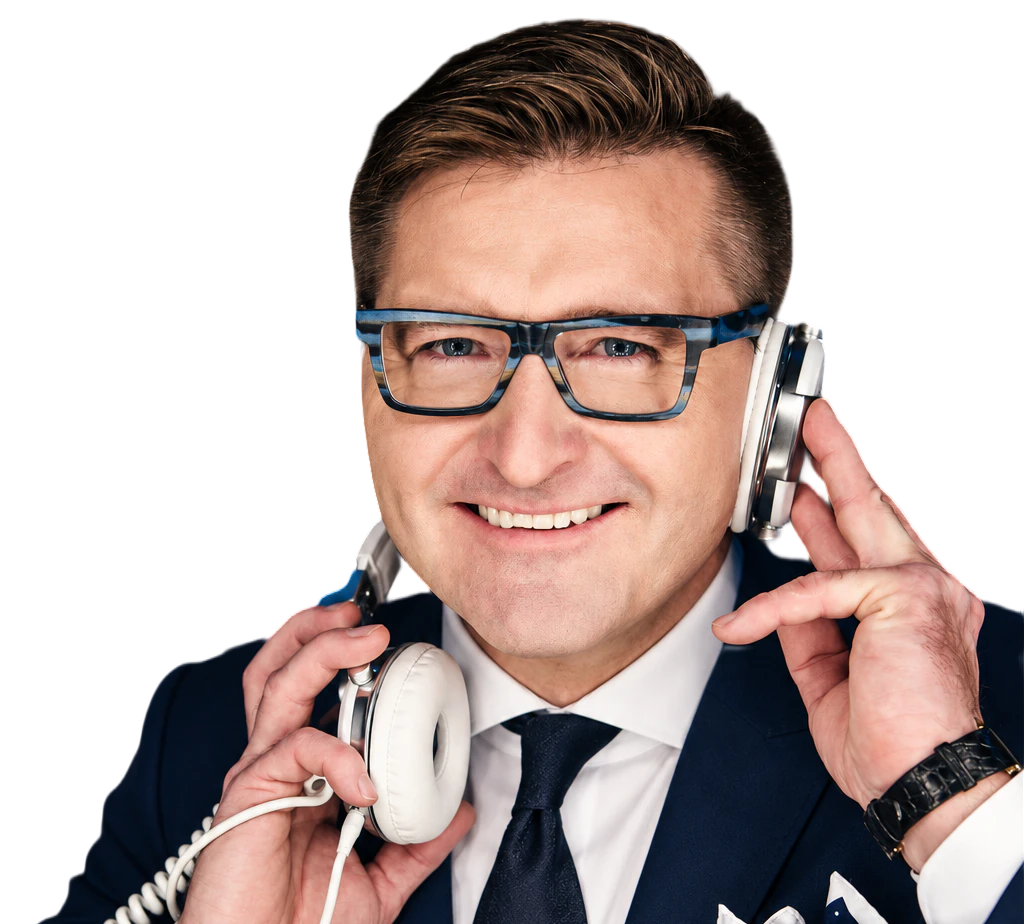
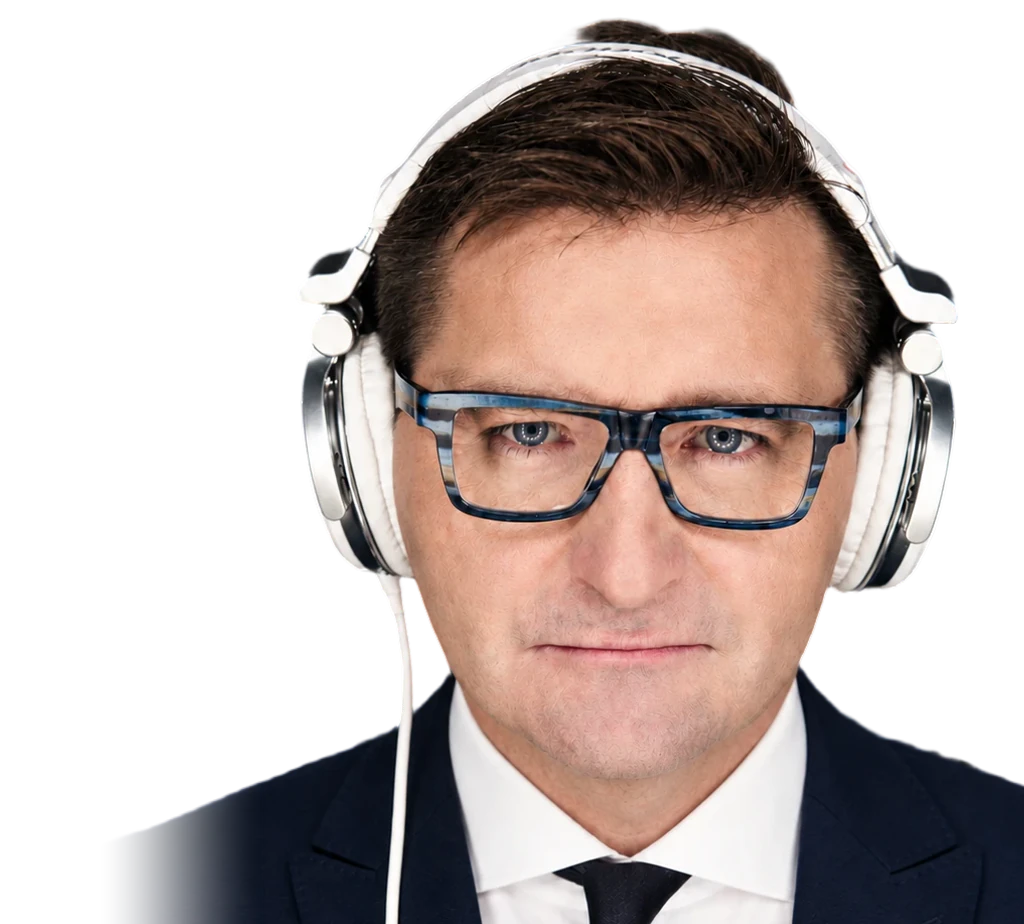
v1: nowe zdjęcie w hero (portret w słuchawkach), osobny kadr na telefon
- wycinek nowego zdjęcia (BEN2 + oczyszczenie krawędzi), kadr 1024x924 na komputer i tablet, lewy brzeg marynarki wygaszony
- na telefonie wyższy kadr 1017x1162 wybierany przez picture/source, scena telefonu dopasowana do nowych proporcji
- wygaszone boki zdjęcia na szerszych ekranach w pionie, nowy opis alt

diff --git a/index.html b/index.html
@@ -100,12 +100,18 @@
       <div class="hero__stage" data-parallax="0.08">
         <p class="hero__bg-word" aria-hidden="true">Music<br>Artist</p>
         <figure class="hero__portrait">
-          <img src="assets/hero-cutout-1024.webp"
-               srcset="assets/hero-cutout-1024.webp 1024w, assets/hero-cutout-2048.webp 2048w"
-               sizes="(orientation: portrait) and (max-width: 767px) 210vw, (max-width: 699px) and (min-height: 521px) 210vw, (orientation: portrait) and (max-width: 1199px) 680px, 62vw"
-               width="1024" height="924"
-               alt="Błażej Biurkowski w granatowym garniturze ze słuchawkami DJ-skimi"
-               fetchpriority="high" decoding="async">
+          <!-- na telefonie wyższy kadr (głowa i tułów, 1017x1162), bo zdjęcie leży pod całym tekstem; na komputerze i tablecie kadr 1024x924 -->
+          <picture>
+            <source media="(orientation: portrait) and (max-width: 767px), (max-width: 699px) and (min-height: 521px)"
+                    srcset="assets/hero-cutout-m-1017.webp 1017w, assets/hero-cutout-m-2034.webp 2034w"
+                    sizes="150vw" width="1017" height="1162">
+            <img src="assets/hero-cutout-1024.webp"
+                 srcset="assets/hero-cutout-1024.webp 1024w, assets/hero-cutout-2048.webp 2048w"
+                 sizes="(orientation: portrait) and (max-width: 1199px) 680px, 62vw"
+                 width="1024" height="924"
+                 alt="Błażej Biurkowski w granatowym garniturze i białych słuchawkach DJ-skich"
+                 fetchpriority="high" decoding="async">
+          </picture>
         </figure>
       </div>
     </section>

diff --git a/css/style.css b/css/style.css
@@ -1082,11 +1082,17 @@ body.is-loaded .hero__portrait img { opacity: 1; transform: none; }
   .hero__contact { color: var(--cream); }
   .hero__stage {
     position: absolute; top: auto; right: auto; bottom: 0;
-    height: var(--stage-h); width: calc(var(--stage-h) * 1024 / 924);
-    left: calc(50% - var(--stage-h) * 1024 / 924 * .56);
+    height: var(--stage-h); width: calc(var(--stage-h) * 1017 / 1162);
+    left: calc(50% - var(--stage-h) * 1017 / 1162 * .52);   /* kadr telefonu 1017:1162, oś twarzy na 52% szerokości */
     margin: 0;
   }
   .hero__bg-word { display: none; }
+  /* na szerszych ekranach w pionie (do 767 px) kadr jest węższy od okna: boki marynarki wygaszone, bez ostrej pionowej krawędzi
+     (na zwykłym telefonie te pasy leżą poza ekranem) */
+  .hero__portrait {
+    -webkit-mask-image: linear-gradient(90deg, transparent 0, #000 14%, #000 86%, transparent 100%);
+    mask-image: linear-gradient(90deg, transparent 0, #000 14%, #000 86%, transparent 100%);
+  }
 }
 
 /* Bardzo niski telefon (np. 320×568): hero trochę wyższe niż ekran, żeby tekst, twarz i przycisk się nie nakładały */

diff --git a/README.md b/README.md
@@ -14,7 +14,7 @@ Statyczna strona (HTML + CSS + JS, bez frameworków), przygotowana do przeniesie
 
 ## Przeniesienie na WordPress
 - Każda `<section>` = jedna sekcja/kontener w Gutenbergu lub Elementorze. Teksty są zwykłymi nagłówkami i akapitami (bez dzielenia na litery, bez tekstu na grafikach).
-- Hero: nagłówek i opis siedzą w grupie `.hero__head` (w WordPressie: blok Grupa z nagłówkiem i akapitem). Linie nagłówka są łamane `<br>` (w edytorze Shift+Enter), więc ramka grupy ma szerokość najdłuższej linii; na telefonie opis stoi dokładnie na jej środku, na komputerze i tablecie jest wyrównany do lewej. Duży napis w tle (`.hero__bg-word`, dekoracyjny, `aria-hidden`) z lewej wyłania się z tła (maska gradientowa), a zdjęcie postaci z przezroczystym tłem (WebP z kanałem alfa) w `.hero__stage`. Scena ma w CSS proporcje wycinka 1024:924 (`aspect-ratio`); przy podmianie zdjęcia na kadr o innych proporcjach trzeba zmienić `aspect-ratio` i położenie napisu. Oryginał wycinka (PNG): `assets/source/hero-cutout.png`.
+- Hero: nagłówek i opis siedzą w grupie `.hero__head` (w WordPressie: blok Grupa z nagłówkiem i akapitem). Linie nagłówka są łamane `<br>` (w edytorze Shift+Enter), więc ramka grupy ma szerokość najdłuższej linii; na telefonie opis stoi dokładnie na jej środku, na komputerze i tablecie jest wyrównany do lewej. Duży napis w tle (`.hero__bg-word`, dekoracyjny, `aria-hidden`) z lewej wyłania się z tła (maska gradientowa), a zdjęcie postaci z przezroczystym tłem (WebP z kanałem alfa) w `.hero__stage`. Scena ma w CSS proporcje wycinka 1024:924 (`aspect-ratio`); przy podmianie zdjęcia na kadr o innych proporcjach trzeba zmienić `aspect-ratio` i położenie napisu. Obecne zdjęcie (od 4.10.2026: portret w białych słuchawkach na głowie, poprawiony w GPT Image 2) ma wycinek `assets/source/hero-cutout-3.png` (zdjęcie: `hero-photo-3.png`); poprzedni wycinek zostaje w `assets/source/hero-cutout.png`. Na komputerze i tablecie kadr to `hero-cutout-1024/2048.webp` (postać przesunięta w prawo, lewy brzeg marynarki wygaszony), na telefonie wyższy kadr 1017:1162 (`hero-cutout-m-1017/2034.webp`) wybierany elementem `<picture><source media=…>` z tym samym warunkiem co układ telefonu w CSS. Przy podmianie zdjęcia trzeba ustawić kadr tak, żeby na telefonie brwi wypadły na ok. 34% wysokości, a broda na ok. 67%.
 - O mnie: nagłówek „O mnie” i cała wypowiedź Błażeja jako jeden `<blockquote>` z akapitami (w WordPressie: blok Cytat). Obok zdjęcie Błażeja na hokerze ze słuchawkami w dłoni, z wyciętym tłem (`assets/about-portrait.webp`, oryginał wycinka: `assets/source/about-seated-cutout.png`), w tle miękkie wstęgi `assets/ribbons.webp` (CSS, `.about::before`, generator `.claude/tools/ribbons.mjs`).
 - Styl: po lewej karuzela 3D (`.values__carousel[data-carousel]`, zwykła lista `<ul class="carousel__track">` ze zdjęciami `<img>`; w WordPressie: blok Galeria z tymi klasami). Zdjęcia są ścianami obracającego się graniastosłupa: środkowe stoi przodem, dwa sąsiednie odchodzą w głąb pod kątem i są przygaszone, reszta jest po niewidocznej stronie; przy obrocie zdjęcie zwęża się i znika za krawędzią następnego. Nie ma strzałek: zdjęcia przeciąga się myszą lub palcem, działają też strzałki na klawiaturze i klik w boczne zdjęcie, a co 5,2 s karuzela obraca się sama (po dotknięciu wraca do tego po 7 s). Niedociągnięte zdjęcie samo płynnie ustawia się na środku. Na komputerze wysokość środkowego zdjęcia to 86% wysokości listy tekstów obok (stała `SIZE`), najwyżej tyle, ile mieści ekran; karuzela może wyjść w lewo poza kolumnę, do toru paska nut. Zdjęcia powinny być pionowe 3:4 (tu 7 plików `assets/slides/`, 1080x1440 WebP); gdy brakuje szerokości, kafelek jest trochę smuklejszy i boki zdjęcia zostają poza kadrem. Kąt ścian, przygaszenie, wielkość i tempo ustawia się stałymi na początku bloku „KARUZELA 3D” w `main.js`.
 - W roli Eksperta (dawniej „Media o mnie”; kotwica `#media` i klasy `media__*` bez zmian): tytuł jest długi, więc na komputerze i tablecie jego wielkość dopasowuje się do szerokości treści i zawsze mieści się w jednej linii; na telefonie łamie się na „W ROLI / EKSPERTA” (twarda spacja między „W” i „roli”). Przy zmianie tytułu na inny trzeba poprawić dzielnik w regule `.media .sec-head__title` (szerokość napisu w em). Ściana kadrów to zwykłe `<figure>` z atrybutem `style="--ar: szerokość/wysokość"` (proporcje kadru). Rzędy układają się same i wypełniają szerokość bez przycinania zdjęć; kadry są zawsze w kolorze (po najechaniu lekko się przybliżają). Znak stacji w rogu to opcjonalny `<span class="wall__badge">` z logo. Logotypy stacji i redakcji mają jedno źródło: pasek `.marquee` na dole sekcji. Na telefonie i tablecie w pionie (poniżej 1024 px) pasek się przesuwa jak dotąd; na komputerze JS kopiuje z niego pierwszych 8 logotypów do listy `.media__logos` i rozkłada je po obu stronach ściany kadrów (lekko obrócone, wolno unoszące się), a pasek znika. Żeby logotypy miały miejsce, na ekranach węższych niż ok. 1650 px ściana kadrów jest trochę węższa. Położenie każdego logotypu to reguły `.media__logo:nth-child(n)` w CSS (kolejność jak w pasku).
